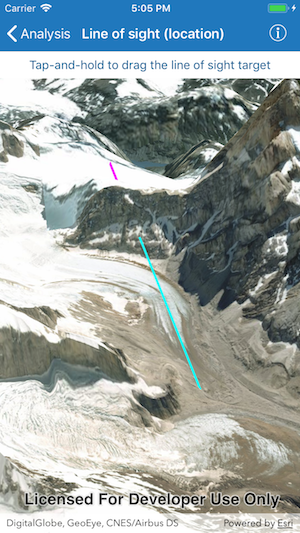
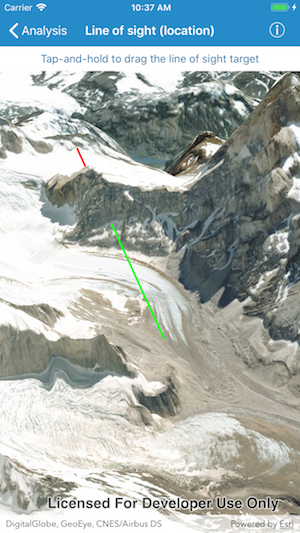
PR review changes

diff --git a/arcgis-ios-sdk-samples/Analysis/Line of sight (location)/LineOfSightLocationViewController.swift b/arcgis-ios-sdk-samples/Analysis/Line of sight (location)/LineOfSightLocationViewController.swift
@@ -35,74 +35,68 @@ class LineOfSightLocationViewController: UIViewController, AGSGeoViewTouchDelega
     override func viewDidLoad() {
         super.viewDidLoad()
         
-        //add the source code button item to the right of navigation bar
-        (self.navigationItem.rightBarButtonItem as! SourceCodeBarButtonItem).filenames = ["LineOfSightLocationViewController"]
+        // add the source code button item to the right of navigation bar
+        (navigationItem.rightBarButtonItem as! SourceCodeBarButtonItem).filenames = ["LineOfSightLocationViewController"]
         
-        //initialize the scene with an imagery basemap
+        // initialize the scene with an imagery basemap
         let scene = AGSScene(basemap: AGSBasemap.imagery())
         
-        //initialize the elevation source with the elevation service URL
+        // initialize the elevation source with the service URL and add it to the base surface of the scene
         let elevationSrc = AGSArcGISTiledElevationSource(url: ELEVATION_SERVICE_URL)
-        
-        //add the elevation source to the base surface of the scene
         scene.baseSurface?.elevationSources.append(elevationSrc)
         
-        //assign the scene to the scene view
+        // assign the scene to the scene view
         sceneView.scene = scene
         
-        //set the viewpoint specified by the camera position
+        // set the viewpoint specified by the camera position
         let camera = AGSCamera(location: AGSPoint(x: -73.0815, y: -49.3272, z: 4059, spatialReference: AGSSpatialReference.wgs84()), heading: 11, pitch: 62, roll: 0)
         sceneView.setViewpointCamera(camera)
         
-        //set touch delegate on scene view as self
+        // set touch delegate on scene view as self
         sceneView.touchDelegate = self
 
-        //initialize the line of sight with arbitrary points (observer and target will be defined by the user)
+        // initialize the line of sight with arbitrary points (observer and target will be defined by the user)
         lineOfSight = AGSLocationLineOfSight(observerLocation: AGSPoint(x: 0.0 , y: 0.0, z: 0.0, spatialReference: AGSSpatialReference.wgs84()), targetLocation: AGSPoint(x: 0.0 , y: 0.0, z: 0.0, spatialReference: AGSSpatialReference.wgs84()))
         
-        //create an analysis overlay for the line of sight and add it to the scene view
+        // set the line width (default 1.0). This setting is applied to all line of sight analysis in the view
+        AGSLineOfSight.setLineWidth(2.0)
+        
+        // create an analysis overlay for the line of sight and add it to the scene view
         let analysisOverlay = AGSAnalysisOverlay()
         analysisOverlay.analyses.add(lineOfSight)
         sceneView.analysisOverlays.add(analysisOverlay)
-        
-        //set the line width (default 1.0), visible color (default: green), obstructed colors (default: red). These are static properties that apply to all line of sight analyses in the scene view
-        AGSLineOfSight.setLineWidth(2.0)
-        AGSLineOfSight.setVisibleColor(.cyan)
-        AGSLineOfSight.setObstructedColor(.magenta)
-
     }
     
-    
-    //MARK: - AGSGeoViewTouchDelegate
+    // MARK: - AGSGeoViewTouchDelegate
     
     func geoView(_ geoView: AGSGeoView, didTapAtScreenPoint screenPoint: CGPoint, mapPoint: AGSPoint) {
         guard !observerSet else {
             return
         }
         
-        //define the observer location
+        // define the observer location
         lineOfSight.observerLocation = mapPoint
 
         observerSet = true
     }
     
     func geoView(_ geoView: AGSGeoView, didLongPressAtScreenPoint screenPoint: CGPoint, mapPoint: AGSPoint) {
-        //check if user has set the observer location
+        // check if user has set the observer location
         guard observerSet else {
             return
         }
         
-        //update the target location
+        // update the target location
         lineOfSight.targetLocation = mapPoint
     }
     
     func geoView(_ geoView: AGSGeoView, didMoveLongPressToScreenPoint screenPoint: CGPoint, mapPoint: AGSPoint) {
-        //check if user has set the observer location
+        // check if user has set the observer location
         guard observerSet else {
             return
         }
         
-        //update the target location
+        // update the target location
         lineOfSight.targetLocation = mapPoint
     }
     

diff --git a/arcgis-ios-sdk-samples/Analysis/Line of sight (location)/README.md b/arcgis-ios-sdk-samples/Analysis/Line of sight (location)/README.md
@@ -6,12 +6,6 @@ This sample demonstrates how to interactively place a line of sight between two 
 
 ## How it works
 
-`AGSLocationLineOfSight` analysis provides an initializer called `init(observerLocation:targetLocation:)` that takes observer and target locations.
+`AGSLocationLineOfSight` is initialized using the `init(observerLocation:targetLocation:)` method that takes observer and target locations. As a result of the analysis, a line is rendered between the observer and target with green color representing visible segment and red color representing obstructed segment. Analysis overlay is used to render the results of visual analysis on the scene view. The line width used to render analysis results is set using the `setLineWidth()` method on the base class for the line of sight analysis `AGSLineOfSight`. This setting is applied to all line of sight analyses in the view.
 
-Once the `AGSLocationLineOfSight` is created, it is added to a collection of analysis overlays in the `AGSSceneView`. The analysis overlays are used to render the results of visual analysis on the scene view.
-
-The sample uses `AGSGeoViewTouchDelegate` to capture user interaction on map and updates the `observerLocation` and `targetLocation` on the `AGSLocationLineOfSight` as follows:
-- The observer location is defined in the `geoView(_:didTapAtScreenPoint:mapPoint:)` method when user taps on the map.
-- The target location is updated in the `geoView(_:didLongPressAtScreenPoint:mapPoint:)` method when user performs long-pressed gesture at a specified location and in the `geoView(_:didMoveLongPressToScreenPoint:mapPoint:)` method when user drags the target location during a long press interaction.
-
-As a result of the analysis, a line is rendered between the observer and target with distinct colors representing visible and obstructed segments. The sample shows visible segment in cyan and obstructed segment in magenta.
+`AGSGeoViewTouchDelegate` is used for capturing user's interaction on map and updating the `observerLocation` and `targetLocation`. The observer location is set in the `geoView(_:didTapAtScreenPoint:mapPoint:)` method when user taps on the map. The target location is updated in the `geoView(_:didLongPressAtScreenPoint:mapPoint:)` method user performs long-pressed gesture at a specified location and in the `geoView(_:didMoveLongPressToScreenPoint:mapPoint:)` method when user drags the target location during a long press interaction.
